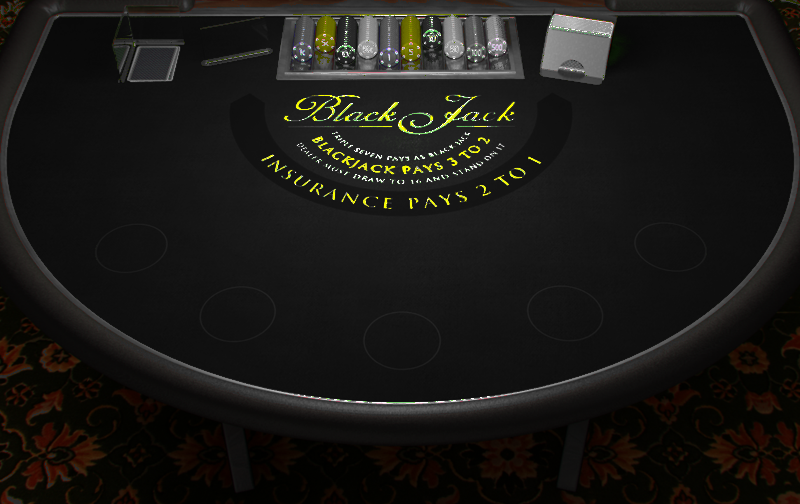
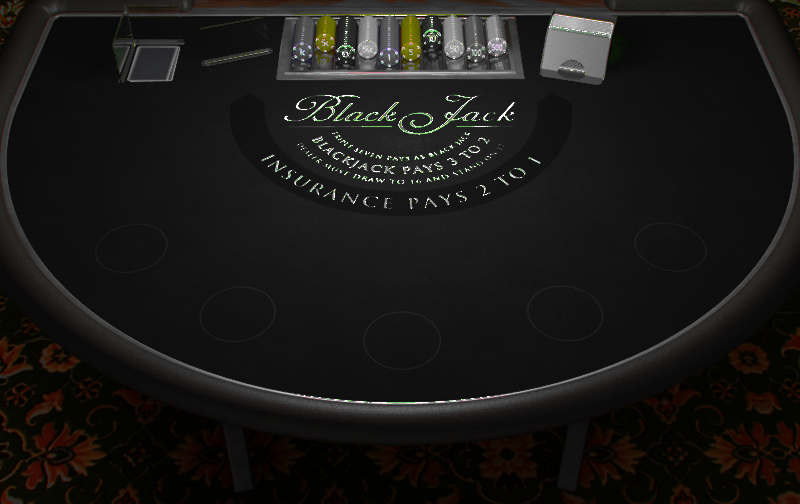
update count-card

diff --git a/js/game.js b/js/game.js
@@ -16,13 +16,13 @@ function init(){
 		},
 		startContainer: false,
 		buttons: [
-			new Button('Pedír', '#f6ff00', 100, 100, () => player.hit()),
-			new Button('Pararse', '#f6ff00', 200, 100, () => player.stand()),
+			new Button('Pedír', '#fff', 100, 100, () => player.hit()),
+			new Button('Pararse', '#fff', 200, 100, () => player.stand()),
 			new Button('Comenzar', '#fff', 935, -430, () => game.go()),
-			new Button('Seguro', '#f6ff00', 100, -80, () => player.insure()),
+			new Button('Seguro', '#fff', 100, -80, () => player.insure()),
 			//new Button('Split', '#fff', 100, -40, () => l('split')),
-			new Button('Doblar', '#f6ff00', 100, -40, () => player.double()),
-			new Button('Abandonar', '#f6ff00', 100, 0, () => player.giveUp()),
+			new Button('Doblar', '#fff', 100, -40, () => player.double()),
+			new Button('Abandonar', '#fff', 100, 0, () => player.giveUp()),
 			new Button('Nuevo juego', '#fff', 100, -490, () => game.reset())
 		],
 		buttonContainer: false,
@@ -315,7 +315,7 @@ function init(){
 			stage.addChild(this.buttonContainer);
 
 			this.buttons.forEach(function(b){
-				var button = new createjs.Text(b.text, '30px Alex Brush', b.color);
+				var button = new createjs.Text(b.text, '30px Arial', b.color);
 				button.x = b.x;
 				button.y = b.y;
 				var hit = new createjs.Shape();
